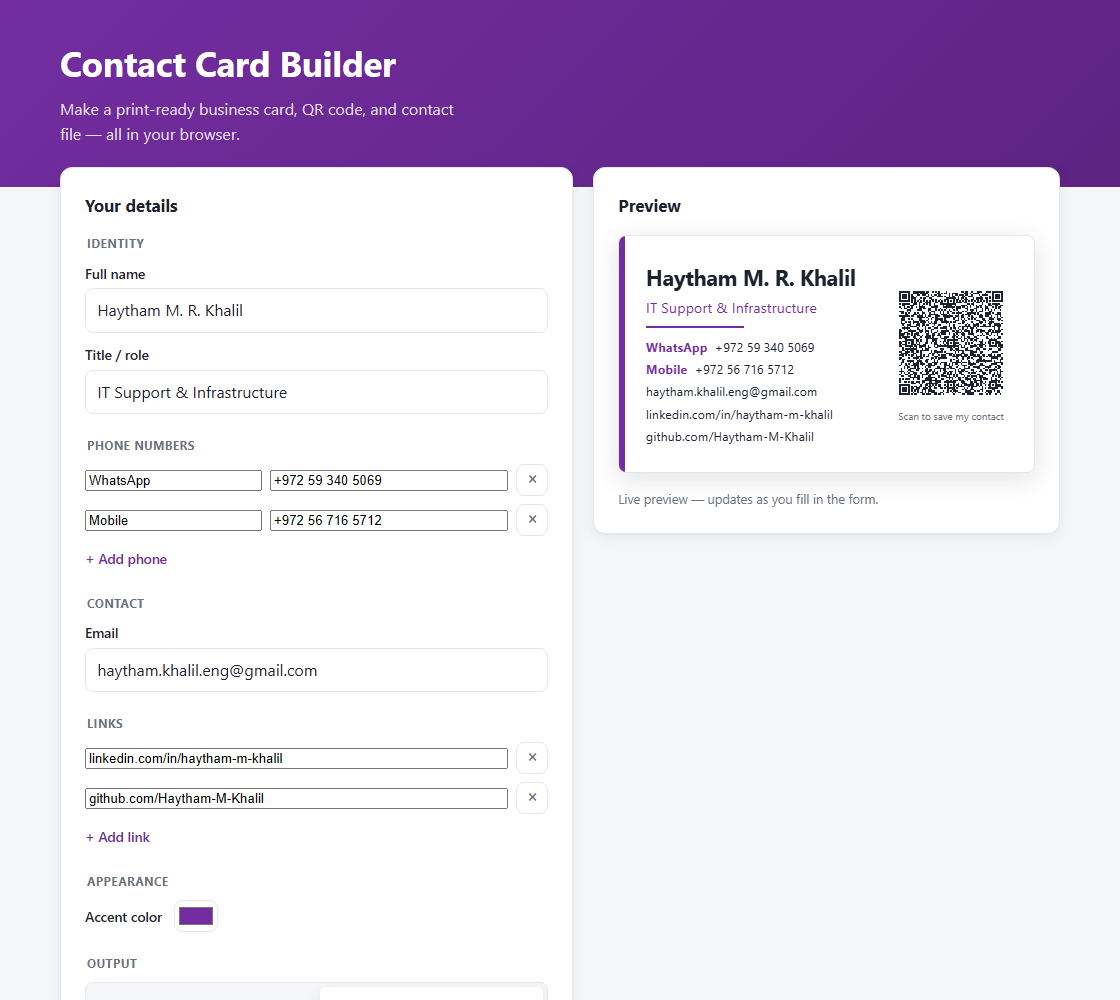
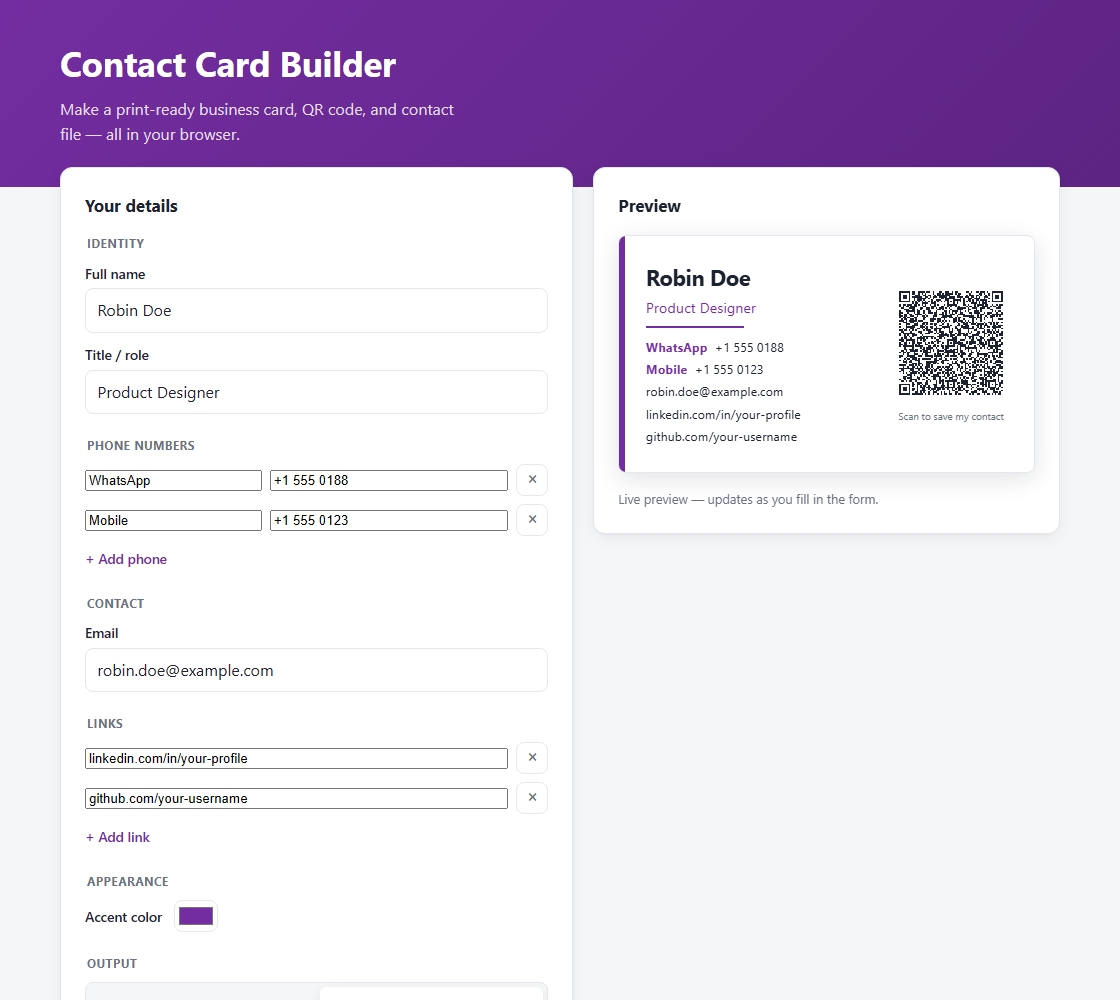
chore: use a fictional sample persona instead of personal details
Replace the real contact details used as form placeholders and in the sample
preview card with a clearly-fictional persona (Robin Doe, example.com email,
555 phone numbers, generic your-username/your-profile handles) so nothing
maps to a real person. Regenerate the README screenshot to match. Author
attribution in LICENSE/README is unchanged.

diff --git a/index.html b/index.html
@@ -26,12 +26,12 @@
 
           <label class="field">
             <span class="field__label">Full name</span>
-            <input type="text" id="name" name="name" placeholder="Haytham M. R. Khalil" />
+            <input type="text" id="name" name="name" placeholder="Robin Doe" />
           </label>
 
           <label class="field">
             <span class="field__label">Title / role</span>
-            <input type="text" id="title" name="title" placeholder="IT Support &amp; Infrastructure" />
+            <input type="text" id="title" name="title" placeholder="Product Designer" />
           </label>
         </fieldset>
 
@@ -41,12 +41,12 @@
           <div id="phone-list" class="repeat-list">
             <div class="repeat-row">
               <input type="text" class="phone-label" placeholder="Label (e.g. WhatsApp)" aria-label="Phone label" />
-              <input type="tel" class="phone-number" placeholder="+972 59 340 5069" aria-label="Phone number" />
+              <input type="tel" class="phone-number" placeholder="+1 555 0188" aria-label="Phone number" />
               <button type="button" class="row-remove" aria-label="Remove this phone">&times;</button>
             </div>
             <div class="repeat-row">
               <input type="text" class="phone-label" placeholder="Label (e.g. Mobile)" aria-label="Phone label" />
-              <input type="tel" class="phone-number" placeholder="+972 56 716 5712" aria-label="Phone number" />
+              <input type="tel" class="phone-number" placeholder="+1 555 0123" aria-label="Phone number" />
               <button type="button" class="row-remove" aria-label="Remove this phone">&times;</button>
             </div>
           </div>
@@ -58,7 +58,7 @@
 
           <label class="field">
             <span class="field__label">Email</span>
-            <input type="email" id="email" name="email" placeholder="haytham.khalil.eng@gmail.com" />
+            <input type="email" id="email" name="email" placeholder="robin.doe@example.com" />
           </label>
         </fieldset>
 
@@ -67,11 +67,11 @@
 
           <div id="link-list" class="repeat-list">
             <div class="repeat-row">
-              <input type="text" class="link-url" placeholder="linkedin.com/in/haytham-m-khalil" aria-label="Link" />
+              <input type="text" class="link-url" placeholder="linkedin.com/in/your-profile" aria-label="Link" />
               <button type="button" class="row-remove" aria-label="Remove this link">&times;</button>
             </div>
             <div class="repeat-row">
-              <input type="text" class="link-url" placeholder="github.com/Haytham-M-Khalil" aria-label="Link" />
+              <input type="text" class="link-url" placeholder="github.com/your-username" aria-label="Link" />
               <button type="button" class="row-remove" aria-label="Remove this link">&times;</button>
             </div>
           </div>
@@ -122,15 +122,15 @@
         <div class="card__accent"></div>
         <div class="card__body">
           <div class="card__info">
-            <p class="card__name">Haytham M. R. Khalil</p>
-            <p class="card__role">IT Support &amp; Infrastructure</p>
+            <p class="card__name">Robin Doe</p>
+            <p class="card__role">Product Designer</p>
             <hr class="card__divider" />
             <ul class="card__lines">
-              <li><span class="card__label">WhatsApp</span> +972 59 340 5069</li>
-              <li><span class="card__label">Mobile</span> +972 56 716 5712</li>
-              <li>haytham.khalil.eng@gmail.com</li>
-              <li>linkedin.com/in/haytham-m-khalil</li>
-              <li>github.com/Haytham-M-Khalil</li>
+              <li><span class="card__label">WhatsApp</span> +1 555 0188</li>
+              <li><span class="card__label">Mobile</span> +1 555 0123</li>
+              <li>robin.doe@example.com</li>
+              <li>linkedin.com/in/your-profile</li>
+              <li>github.com/your-username</li>
             </ul>
           </div>
           <div class="card__qr">
